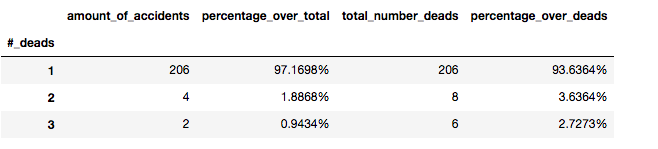
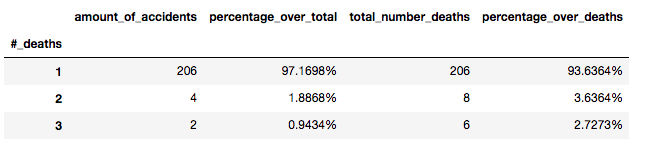
Correccio deads > deaths

diff --git a/_posts/2017-1-1-Hello-World.md b/_posts/2017-1-1-Hello-World.md
@@ -70,58 +70,58 @@ As a starter, I will consider mainly the number of accidents and the number of p
 
 * Year.
 
-![accidents_deads_per_year](/images/accidents_deads_per_year.png){:height="400px" width="800px"}
+![accidents_deaths_per_year](/images/accidents_deaths_per_year.png){:height="400px" width="800px"}
 
 The trend is clear in both cases; while the accidents have been increasing during last years, the number of people that lost their lives in those have clearly diminished.
 
 * Month.
 
-![accidents_deads_per_month2](/images/accidents_deads_per_month2.png){:height="400px" width="800px"}
+![accidents_deaths_per_month2](/images/accidents_deaths_per_month2.png){:height="400px" width="800px"}
 
-In the graph, we can see on yellow the amount of accidents per month, on red the number of deads per month and, finally, the average of deads per accident shown in a blue line.
-The months (in my modest opinion) to point out in September and August. September is the month was the biggest amount of dead people what surprised unless explained by being the month right after August which has the biggest average the deads per accidents that might be associated to the recreational factor.
+In the graph, we can see on yellow the amount of accidents per month, on red the number of deaths per month and, finally, the average of deaths per accident shown in a blue line.
+The months (in my modest opinion) that deserve to be pointed out are the summer ones but essentially  September and August. September is the month with the biggest amount of dead people It actually surprised me and the only explanation I find is that it is the final month of the summer right after August which has the biggest average the deaths per accidents. It all makes me consider the recreational factor of the traffic trips as the main reason of their high number of accidents and sadly deaths.
 
 * Weekday.
 
-![accidents_deads_per_weekday2](/images/accidents_deads_per_weekday2.png){:height="450px" width="800px"}
+![accidents_deaths_per_weekday2](/images/accidents_deaths_per_weekday2.png){:height="450px" width="800px"}
 
-Using the same colors and references than before, we can see how Saturday is the day where the deads per accidents get the higher rate. It is also important to point out Monday as the day with more accidents and deads. So I had to check the weekend and this is what I did.
+Using the same colors and references than before, we can see how Saturday is the day where the deaths per accidents get the higher rate. It is also important to point out Monday as the day with more accidents and deaths. So I will next check the weekend and this is what I found out.
 
 * Weekend.
 
-![accidents_deads_per_weekend2](/images/accidents_deads_per_weekend2.png){:height="450px" width="800px"}
+![accidents_deaths_per_weekend2](/images/accidents_deaths_per_weekend2.png){:height="450px" width="800px"}
 
-In this case, we can see how the line representing the number of deads, peaks up on Friday night and not as much during Saturday night. This is important to point out, I believe because this explains why Saturday stands out in the number of deads. It is obvious that what we call Friday night is way more active when it comes to accidents and deads that at least myself expected.
+In this case, we can see how the line representing the number of deaths, peaks up on Friday night and not as much during Saturday night. This is important to point out because this explains why Saturday stands out in the number of deaths. Saturday includes the late hours of the Friday night and early hours of Saturday night. But if we understand Friday night as the hours from Friday 10pm to Saturday morning 5am, Friday should stand out as the most dangerous hours of the week.
 
 * Hourly.
 
-![accidents_deads_per_hour](/images/accidents_deads_per_hour.png){:height="450px" width="800px"}
+![accidents_deaths_per_hour](/images/accidents_deaths_per_hour.png){:height="450px" width="800px"}
 
-This new chart is confirming all that we have been seeing so far. It is that the riskiest time to drive in Barcelona is during the early morning. The first chart, similar to the one we had for the weekend, shows that correlation broken between accidents and deads. In the second one, I try to make that visualization clearer.
+This new chart is confirming all that we have been seeing so far. It is that the riskiest time to drive in Barcelona is during the early morning mainly during the weekend. The first chart, similar to the one we had for the weekend, shows that correlation broken between accidents and deaths. In the second one, I try to make that visualization clearer.
 
 ![average_per_hour](/images/average_per_hour.png){:height="450px" width="800px"}
 
 * District.
 
-I could not let it go by without having and analysis about the neighborhoods or districts. It is important to say that traffic and accidents have a different geographic relation. The size of every district, its structure (a lot of pedestrian streets where traffic is not allowed) or its position (a district that is located in middles of important streets and a lot of traffic is guided through it) might be introduced to the analysis in order to have a real deep understanding. I do not have the data so I will just show two charts where we can see how although it is where most accidents take place they are the ones with the least dead. Knowing Barcelona, I can tell you that this is in the middle of the city with a lot of important street and avenues crossing.
+I could not let it go by without having and analysis about the neighborhoods or districts. It is important to say that traffic and accidents have a different geographic relation. The size of every district, its structure (a lot of pedestrian streets where traffic is not allowed) or its location (a district that is placed in the middle of important streets and a lot of traffic is funneled through it) might be introduced to the analysis in order to have a real deep understanding.
 
-![deads_accidents_per_district](/images/deads_accidents_per_district.png){:height="500px" width="800px"}
+What I realized about Barcelona is that the Eixample district is the one that has a lot of the traffic and therefore the accidents and the number of deaths but if you analyze the ratio of the number of deaths per accident it is really low and Les Corts, where there is not a lot of traffic, gets the winning position.
 
-* Accidents with a bigger number of casualties.
+![ratio_per_district](/images/ratio_per_district.png){:height="500px" width="800px"}
 
-####need to export tables and fix weekday chart and add a district one by average. Then I have to see what I do with peds column
 
 
 * Let's have a closer look at the number of deads and injured per accidents.
 
   1. The accidents that have deads are very small (less than 1%).
 
-    ![TauladeadsandAccidents](/images/TauladeadsandAccidents.png){:height="300px" width="500px"}
+    ![Tauladeathsandaccidents](/images/Tauladeathsandaccidents.png){:height="300px" width="500px"}
 
   2. It is obvious that it these circumstances one or two accidents with a higher than the normal number of casualties might have a significative impact overall. In this chart we can see what I mean: only counting the accidents with fatalities, the accidents with one are over 97% of the total.
-      ![Taula2](/images/Taula2.png){:height="300px" width="500px"}
+      ![Taula2](/images/Taula2.png){:height="200px" width="500px"}
 
   3. It is also important to point out that the number of accidents that have people injured (minor, severely or dead) are not that  small compared with the total.
 
     ![TaulaTotal](/images/TaulaTotal.png){:height="300px" width="500px"}
-####need to export tables and fix weekday chart and add a district one by average. Then I have to see what I do with peds column
+
+* What about the vehicles?
